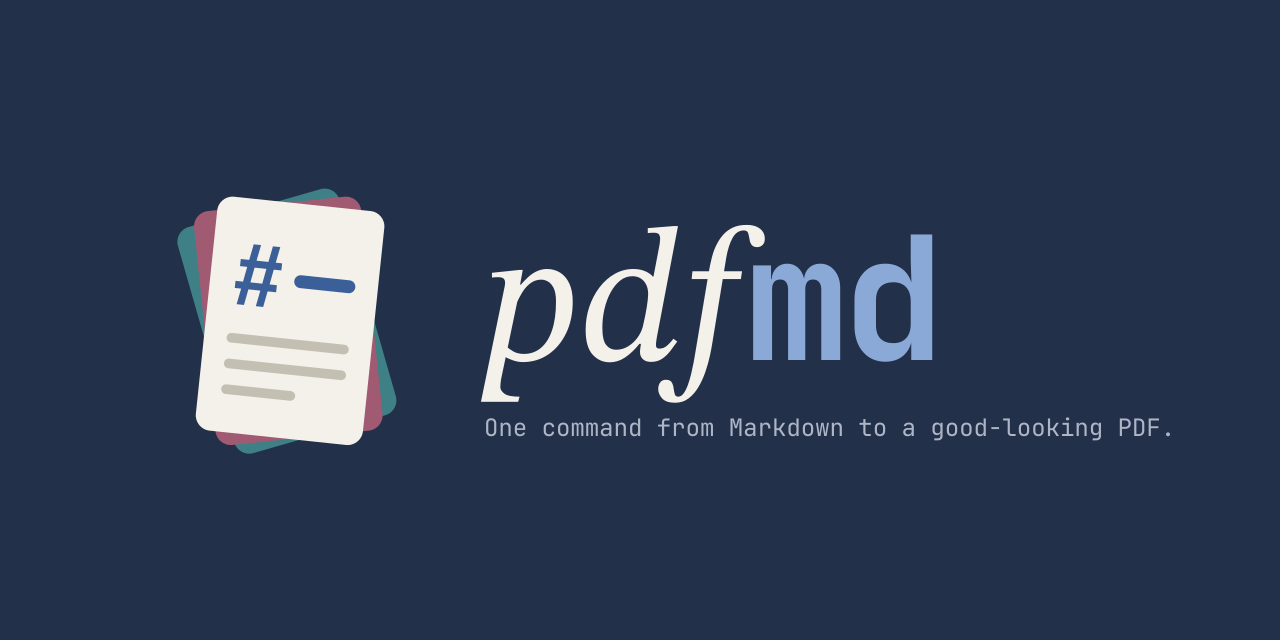
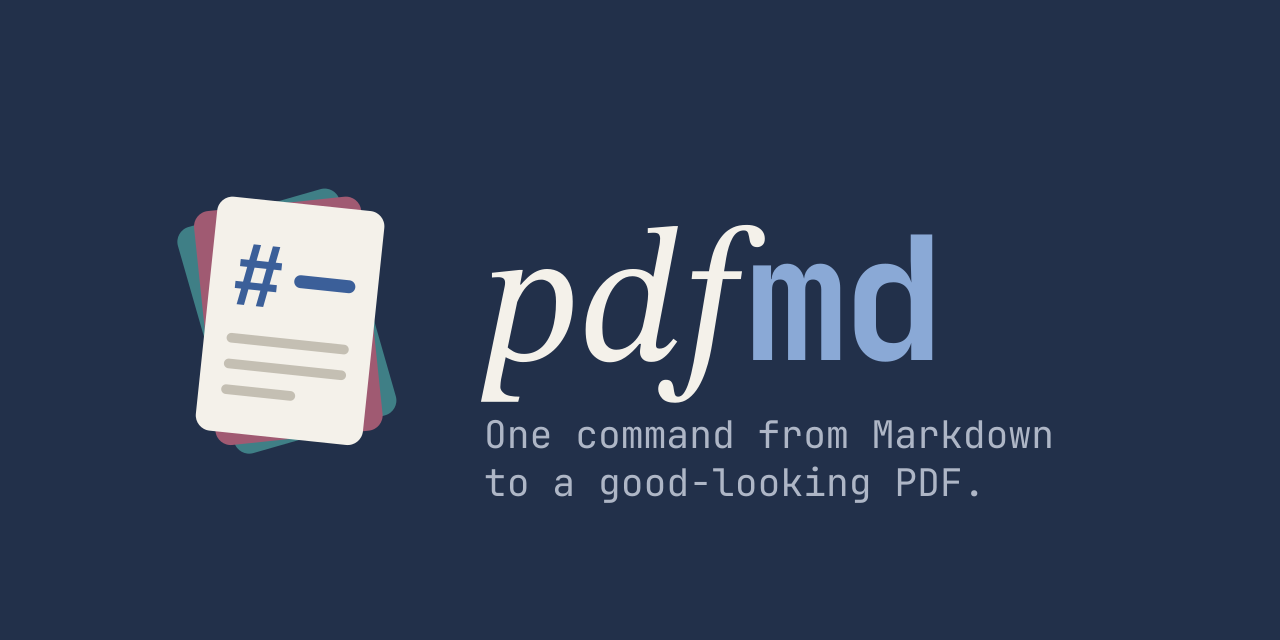
brand: the social preview tagline on two lines, large enough for an unfurl; v3.32.19e

Changed region(s): [[0.375, 0.6562, 0.9062, 0.7812]]

diff --git a/scripts/build_brand.py b/scripts/build_brand.py
@@ -172,7 +172,8 @@ def social() -> str:
     """1280 x 640 social preview: the mark, the wordmark (large) and one line."""
     d1, x = text_path(ITALIC, "pdf", 190, 480, 360)
     d2, x2 = text_path(MONO_BOLD, "md", 172, x + 8, 360, track=-6)
-    tag, _ = text_path(MONO_REG, "One command from Markdown to a good-looking PDF.", 24, 484, 436)
+    tag = " ".join(text_path(MONO_REG, line, 38, 484, y)[0]      # two lines, big enough for a 500 px unfurl
+                   for line, y in (("One command from Markdown", 448), ("to a good-looking PDF.", 496)))
     body = (f'<rect width="1280" height="640" fill="{NAVY}"/><g transform="translate(110 150) scale(1.4)">'
             f'{tile_body(False)}</g>'
             f'<path d="{d1}" fill="{CREAM}"/><path d="{d2}" fill="{BLUE_ON_DARK}"/>'

diff --git a/CHANGELOG.md b/CHANGELOG.md
@@ -28,6 +28,10 @@ Pre-edit state: commit `e800a7b`. Entry 3ew: **the pdfmd logo and app icon** (th
 - `gui/Resources/`: `pdfmd.icns` (full artwork from 48 px up, the `#` only below), and the menu-bar template images (black on transparent, 18 pt high and @2x). `gui/build.sh` copies the icon into the app and sets `CFBundleIconFile`. Nothing uses the menu-bar images yet.
 - Still to do before the next push: the README header and uploading the social preview in the repository settings (TODO.md).
 
+## v3.32.19e — 2026-11-03
+
+Pre-edit state: commit `8a79918`. Brand only: the social preview's one-line tagline is set on two lines and larger, so that it stays readable when the link is unfurled at about 500 px (`scripts/build_brand.py`, then `--render`). `PDFMD_VERSION` stays 3.32.19. Not pushed.
+
 ## v3.32.19d — 2026-11-03
 
 Pre-edit state: commit `dfa8fa8`. Entry 3do (the author: "let's do settings, before M2 then", "native preferences, it is natural, of course we'll build it"). `gui/` only; `PDFMD_VERSION` stays 3.32.19, nothing is released. Not pushed.
